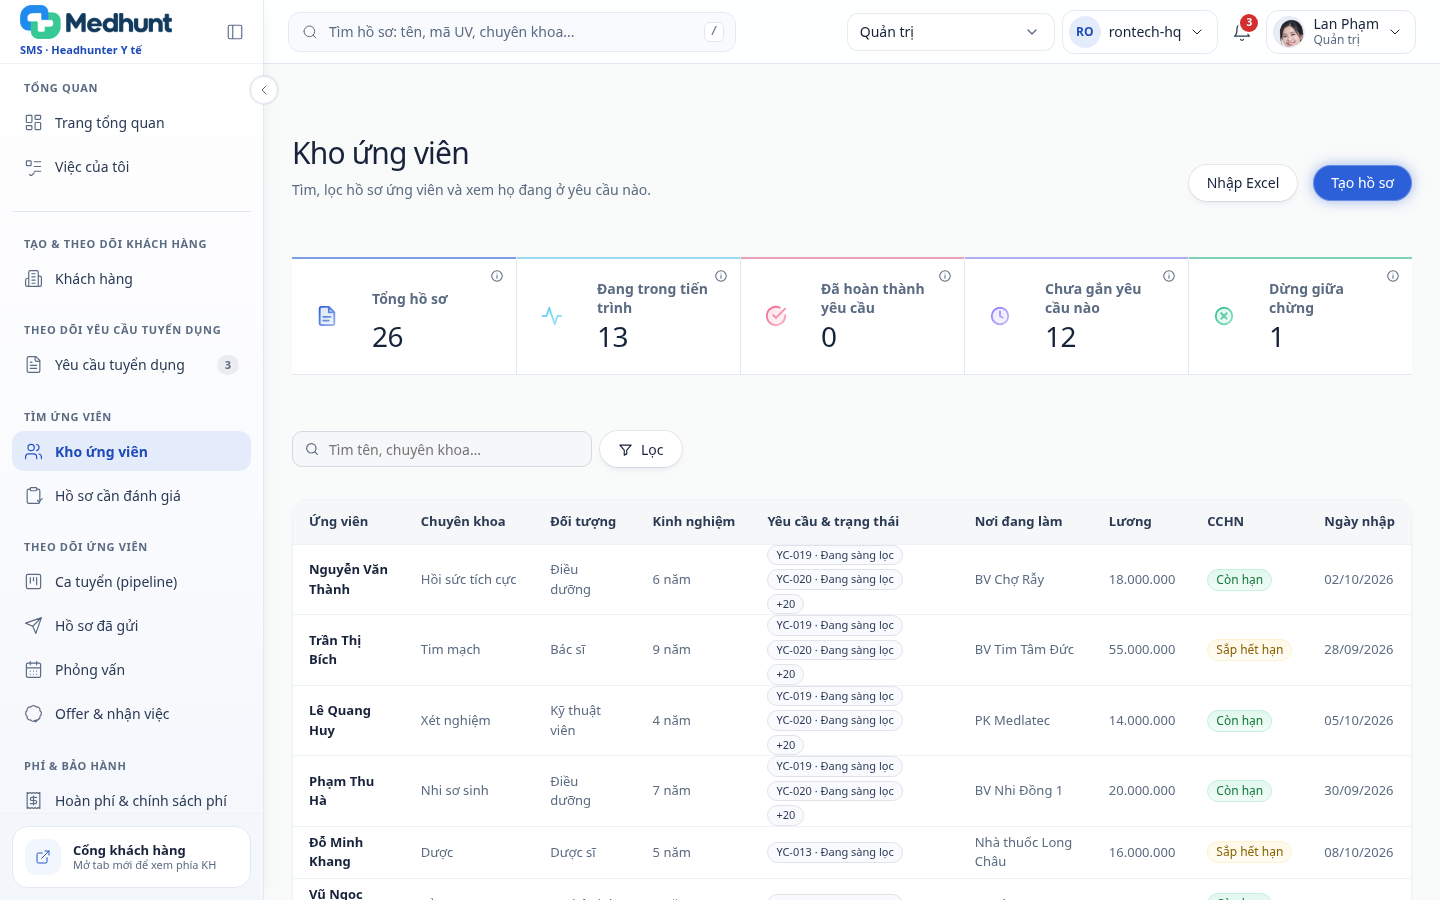
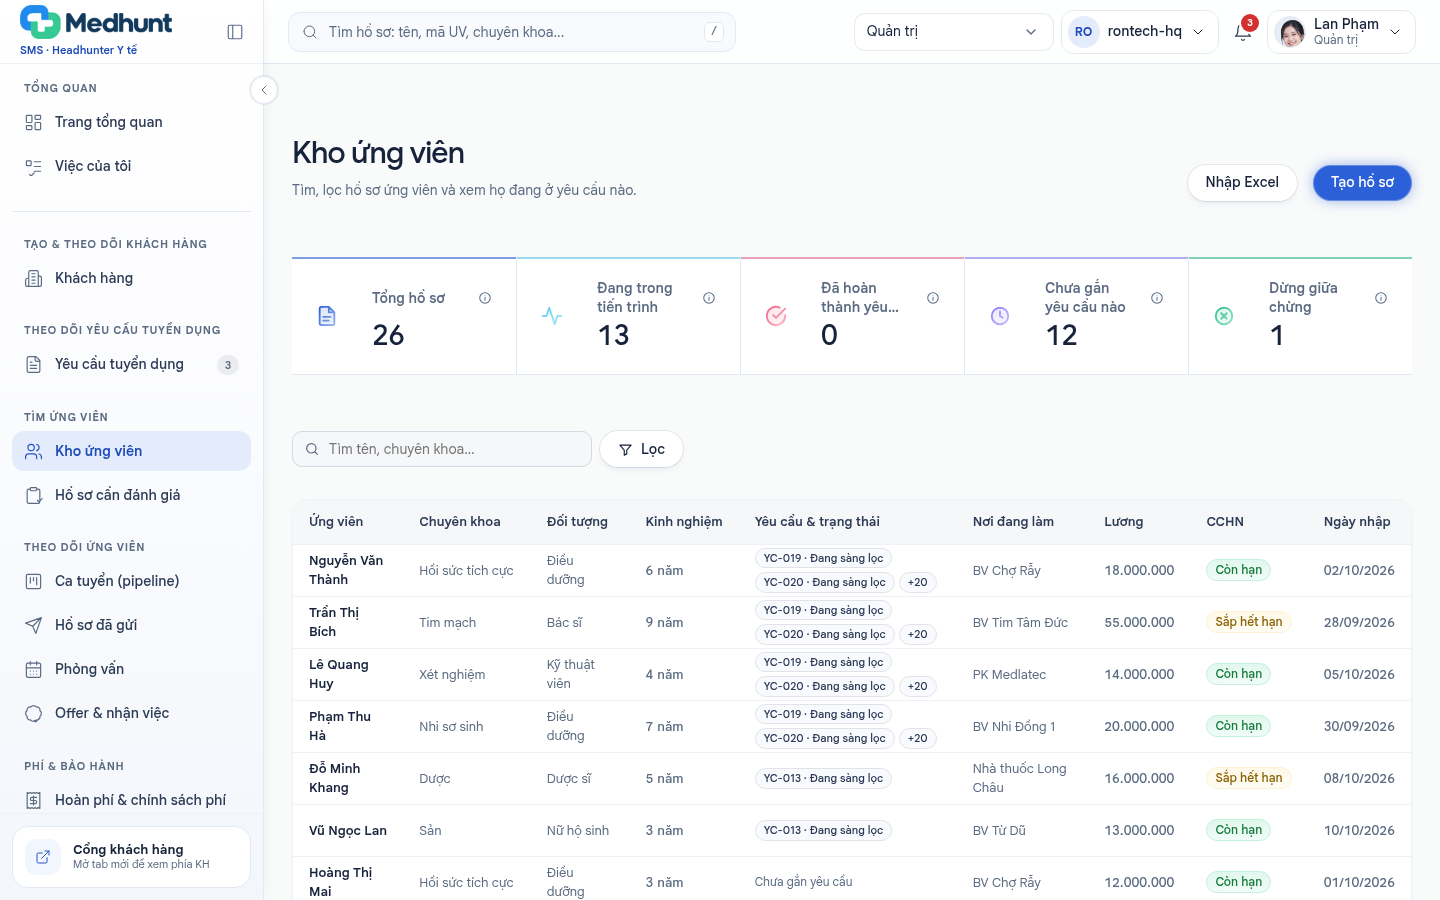
Correct MedHunt screenshot fonts and compact stat spacing

diff --git a/src/components/medhunt-case-study.tsx b/src/components/medhunt-case-study.tsx
@@ -523,10 +523,10 @@ export function MedhuntCaseStudy() {
         <CaseStudyRevealSection className="scroll-mt-24" id="medhunt-core">
           <SectionHeading title="Core workflows stay close to the decision" />
           <div className="mt-16 space-y-24 sm:space-y-32">
-            <article><h3 className="mb-5 font-[var(--font-heading)] text-[26px] tracking-[-0.02em]">01. Request intake and tracking</h3><div className="overflow-x-auto pb-4"><ProductScreenshot alt="MedHunt recruitment request list with status metrics and operational table" src="/assets/medhunt/screens/requests.png?v=cards-2" /></div></article>
-            <article><h3 className="mb-5 font-[var(--font-heading)] text-[26px] tracking-[-0.02em]">02. Candidate pool visibility</h3><div className="overflow-x-auto pb-4"><ProductScreenshot alt="MedHunt candidate pool with profile status, specialty, experience, and license information" src="/assets/medhunt/screens/candidates.png?v=cards-2" /></div></article>
-            <article><h3 className="mb-5 font-[var(--font-heading)] text-[26px] tracking-[-0.02em]">03. Pipeline visibility</h3><div className="overflow-x-auto pb-4"><ProductScreenshot alt="MedHunt recruitment pipeline showing candidate stages and next milestones" src="/assets/medhunt/screens/pipeline.png?v=cards-2" /></div></article>
-            <article><h3 className="mb-5 font-[var(--font-heading)] text-[26px] tracking-[-0.02em]">04. Fees and recruitment funnel</h3><div className="overflow-x-auto pb-4"><ProductScreenshot alt="MedHunt fee collection and recruitment funnel dashboard" src="/assets/medhunt/screens/fees-funnel.png?v=cards-2" /></div></article>
+            <article><h3 className="mb-5 font-[var(--font-heading)] text-[26px] tracking-[-0.02em]">01. Request intake and tracking</h3><div className="overflow-x-auto pb-4"><ProductScreenshot alt="MedHunt recruitment request list with status metrics and operational table" src="/assets/medhunt/screens/requests.png?v=cards-3" /></div></article>
+            <article><h3 className="mb-5 font-[var(--font-heading)] text-[26px] tracking-[-0.02em]">02. Candidate pool visibility</h3><div className="overflow-x-auto pb-4"><ProductScreenshot alt="MedHunt candidate pool with profile status, specialty, experience, and license information" src="/assets/medhunt/screens/candidates.png?v=cards-3" /></div></article>
+            <article><h3 className="mb-5 font-[var(--font-heading)] text-[26px] tracking-[-0.02em]">03. Pipeline visibility</h3><div className="overflow-x-auto pb-4"><ProductScreenshot alt="MedHunt recruitment pipeline showing candidate stages and next milestones" src="/assets/medhunt/screens/pipeline.png?v=cards-3" /></div></article>
+            <article><h3 className="mb-5 font-[var(--font-heading)] text-[26px] tracking-[-0.02em]">04. Fees and recruitment funnel</h3><div className="overflow-x-auto pb-4"><ProductScreenshot alt="MedHunt fee collection and recruitment funnel dashboard" src="/assets/medhunt/screens/fees-funnel.png?v=cards-3" /></div></article>
           </div>
         </CaseStudyRevealSection>
 
